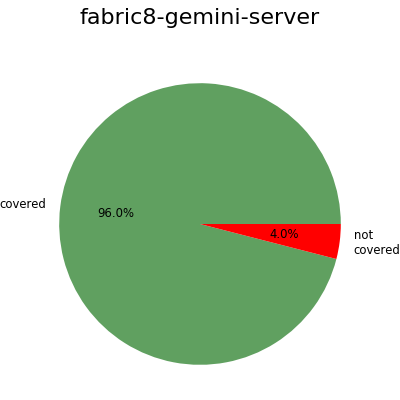
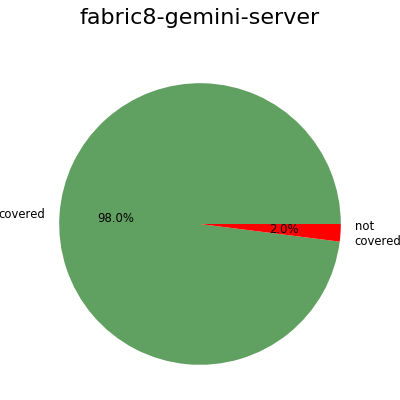
Dashboard 2018-07-24

Changed region(s): [[0.51, 0.54, 1.0, 0.66], [0.0, 0.48, 0.12, 0.57], [0.24, 0.51, 0.33, 0.57]]

diff --git a/dashboard/dashboard.html b/dashboard/dashboard.html
@@ -45,11 +45,11 @@
                                 <td class="boolean ok">&#x2713;</td>
                                 <td class="boolean ok">&#x2713;</td>
                                 <td>
-                                    <span class="ci_status boolean error">&times;</span>
+                                    <span class="ci_status boolean ok">&#x2713;</span>
                                     <a href='https://ci.centos.org/job/devtools-test-end-to-end-prod-fabric8-analytics'>link</a>
                                 </td>
                             <td style="width:3ex">
-                                <a href='https://ci.centos.org/job/devtools-test-end-to-end-prod-fabric8-analytics'>96/99</a>
+                                <a href='https://ci.centos.org/job/devtools-test-end-to-end-prod-fabric8-analytics'>100/100</a>
                             </td>
                         </tr>
                     </table>
@@ -299,8 +299,8 @@ Please note that only semantical problems are reported; problems with style are 
                                         </div>
                                     </a>
                                 </td>
-                                <td class="numeric ok" style="width:6ex">5897</td>
-                                <td class="numeric error" style="width:6ex">2163</td>
+                                <td class="numeric ok" style="width:6ex">5891</td>
+                                <td class="numeric error" style="width:6ex">2156</td>
                                 <td class="numeric" style="width:16ex">
                                     <a href="fabric8-analytics-worker.coverage.txt">
                                         <div class='progress-bar progress-bar-warning progress-bar-striped' style='width:68.55%'>
@@ -833,12 +833,12 @@ Please note that only semantical problems are reported; problems with style are 
                                         </div>
                                     </a>
                                 </td>
-                                <td class="numeric ok" style="width:6ex">262</td>
-                                <td class="numeric error" style="width:6ex">11</td>
+                                <td class="numeric ok" style="width:6ex">299</td>
+                                <td class="numeric error" style="width:6ex">7</td>
                                 <td class="numeric" style="width:16ex">
                                     <a href="fabric8-gemini-server.coverage.txt">
-                                        <div class='progress-bar progress-bar-success progress-bar-striped' style='width:96.6%'>
-                                        96%
+                                        <div class='progress-bar progress-bar-success progress-bar-striped' style='width:98.3%'>
+                                        98%
                                         </div>
                                     </a>
                                 </td>
@@ -1455,7 +1455,7 @@ Please note that only semantical problems are reported; problems with style are 
             </div>
             <div style='height:100px'></div>
             <div>Author: Pavel Tisnovsky &lt;<a href="mailto:ptisnovs@redhat.com">ptisnovs@redhat.com</a>&gt;</div>
-            <div>Generated on: 2018-07-23 10:32:24</div>
+            <div>Generated on: 2018-07-24 11:11:43</div>
         </div>
         <script type="text/javascript">
         $(function () {

diff --git a/dashboard/repository_f8a-hpf-insights.html b/dashboard/repository_f8a-hpf-insights.html
@@ -130,7 +130,7 @@
             </div>
             <div style='height:100px'></div>
             <div>Author: Pavel Tisnovsky &lt;<a href="mailto:ptisnovs@redhat.com">ptisnovs@redhat.com</a>&gt;</div>
-            <div>Generated on: 2018-07-23 10:32:24</div>
+            <div>Generated on: 2018-07-24 11:11:43</div>
         </div>
     </body>
 </html>

diff --git a/dashboard/repository_fabric8-analytics-common.html b/dashboard/repository_fabric8-analytics-common.html
@@ -652,7 +652,7 @@
             </div>
             <div style='height:100px'></div>
             <div>Author: Pavel Tisnovsky &lt;<a href="mailto:ptisnovs@redhat.com">ptisnovs@redhat.com</a>&gt;</div>
-            <div>Generated on: 2018-07-23 10:32:24</div>
+            <div>Generated on: 2018-07-24 11:11:43</div>
         </div>
     </body>
 </html>

diff --git a/dashboard/repository_fabric8-analytics-data-model.html b/dashboard/repository_fabric8-analytics-data-model.html
@@ -154,7 +154,7 @@
             </div>
             <div style='height:100px'></div>
             <div>Author: Pavel Tisnovsky &lt;<a href="mailto:ptisnovs@redhat.com">ptisnovs@redhat.com</a>&gt;</div>
-            <div>Generated on: 2018-07-23 10:32:24</div>
+            <div>Generated on: 2018-07-24 11:11:43</div>
         </div>
     </body>
 </html>

diff --git a/dashboard/repository_fabric8-analytics-ingestion.html b/dashboard/repository_fabric8-analytics-ingestion.html
@@ -100,7 +100,7 @@
             </div>
             <div style='height:100px'></div>
             <div>Author: Pavel Tisnovsky &lt;<a href="mailto:ptisnovs@redhat.com">ptisnovs@redhat.com</a>&gt;</div>
-            <div>Generated on: 2018-07-23 10:32:24</div>
+            <div>Generated on: 2018-07-24 11:11:43</div>
         </div>
     </body>
 </html>

diff --git a/dashboard/repository_fabric8-analytics-jobs.html b/dashboard/repository_fabric8-analytics-jobs.html
@@ -274,7 +274,7 @@
             </div>
             <div style='height:100px'></div>
             <div>Author: Pavel Tisnovsky &lt;<a href="mailto:ptisnovs@redhat.com">ptisnovs@redhat.com</a>&gt;</div>
-            <div>Generated on: 2018-07-23 10:32:24</div>
+            <div>Generated on: 2018-07-24 11:11:43</div>
         </div>
     </body>
 </html>

diff --git a/dashboard/repository_fabric8-analytics-license-analysis.html b/dashboard/repository_fabric8-analytics-license-analysis.html
@@ -202,7 +202,7 @@
             </div>
             <div style='height:100px'></div>
             <div>Author: Pavel Tisnovsky &lt;<a href="mailto:ptisnovs@redhat.com">ptisnovs@redhat.com</a>&gt;</div>
-            <div>Generated on: 2018-07-23 10:32:24</div>
+            <div>Generated on: 2018-07-24 11:11:43</div>
         </div>
     </body>
 </html>

diff --git a/dashboard/repository_fabric8-analytics-npm-insights.html b/dashboard/repository_fabric8-analytics-npm-insights.html
@@ -166,7 +166,7 @@
             </div>
             <div style='height:100px'></div>
             <div>Author: Pavel Tisnovsky &lt;<a href="mailto:ptisnovs@redhat.com">ptisnovs@redhat.com</a>&gt;</div>
-            <div>Generated on: 2018-07-23 10:32:24</div>
+            <div>Generated on: 2018-07-24 11:11:43</div>
         </div>
     </body>
 </html>

diff --git a/dashboard/repository_fabric8-analytics-nvd-toolkit.html b/dashboard/repository_fabric8-analytics-nvd-toolkit.html
@@ -226,7 +226,7 @@
             </div>
             <div style='height:100px'></div>
             <div>Author: Pavel Tisnovsky &lt;<a href="mailto:ptisnovs@redhat.com">ptisnovs@redhat.com</a>&gt;</div>
-            <div>Generated on: 2018-07-23 10:32:24</div>
+            <div>Generated on: 2018-07-24 11:11:43</div>
         </div>
     </body>
 </html>

diff --git a/dashboard/repository_fabric8-analytics-recommender.html b/dashboard/repository_fabric8-analytics-recommender.html
@@ -124,7 +124,7 @@
             </div>
             <div style='height:100px'></div>
             <div>Author: Pavel Tisnovsky &lt;<a href="mailto:ptisnovs@redhat.com">ptisnovs@redhat.com</a>&gt;</div>
-            <div>Generated on: 2018-07-23 10:32:24</div>
+            <div>Generated on: 2018-07-24 11:11:43</div>
         </div>
     </body>
 </html>

diff --git a/dashboard/repository_fabric8-analytics-server.html b/dashboard/repository_fabric8-analytics-server.html
@@ -394,7 +394,7 @@
             </div>
             <div style='height:100px'></div>
             <div>Author: Pavel Tisnovsky &lt;<a href="mailto:ptisnovs@redhat.com">ptisnovs@redhat.com</a>&gt;</div>
-            <div>Generated on: 2018-07-23 10:32:24</div>
+            <div>Generated on: 2018-07-24 11:11:43</div>
         </div>
     </body>
 </html>

diff --git a/dashboard/repository_fabric8-analytics-stack-analysis.html b/dashboard/repository_fabric8-analytics-stack-analysis.html
@@ -574,7 +574,7 @@
             </div>
             <div style='height:100px'></div>
             <div>Author: Pavel Tisnovsky &lt;<a href="mailto:ptisnovs@redhat.com">ptisnovs@redhat.com</a>&gt;</div>
-            <div>Generated on: 2018-07-23 10:32:24</div>
+            <div>Generated on: 2018-07-24 11:11:43</div>
         </div>
     </body>
 </html>
